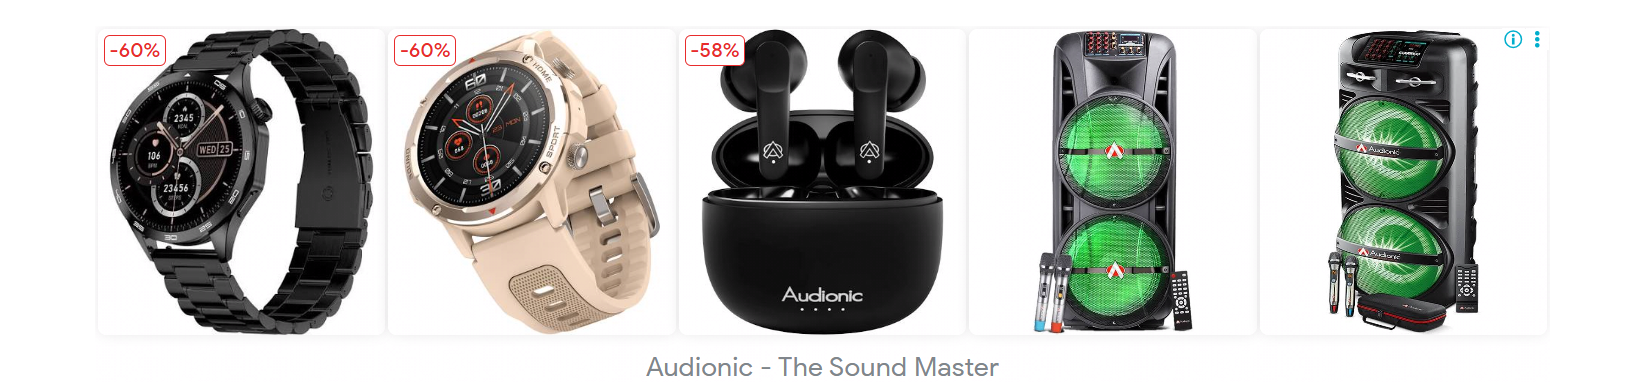
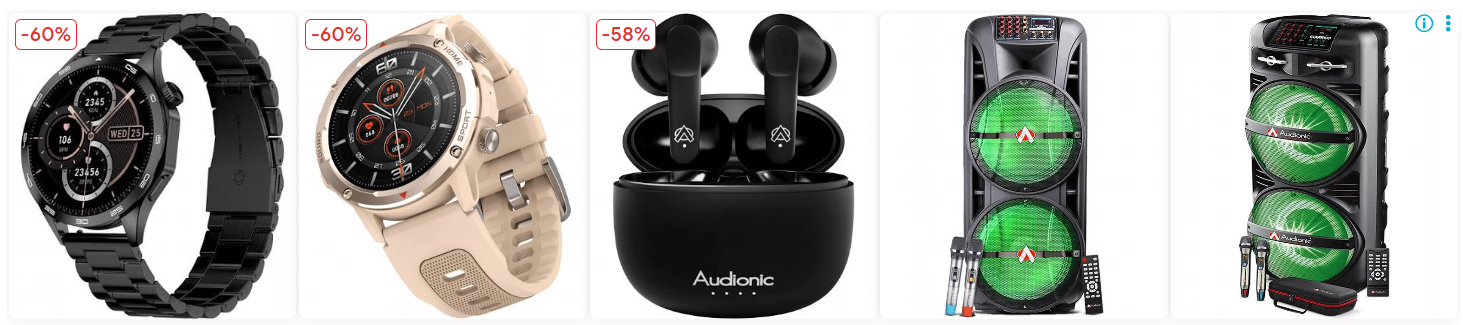
update

diff --git a/index.html b/index.html
@@ -212,8 +212,10 @@
         </div>
 
         <div class="banner1">
-            <img class="banner-img3" src="./images/ss banner.png" alt="">
+            <img class="banner-img4" src="./images/ss banner.png" alt="">
         </div>
+
+        <p class="banner-text">Audionic - the sound master</p>
 
         <!-- cart-2-section -->
 
